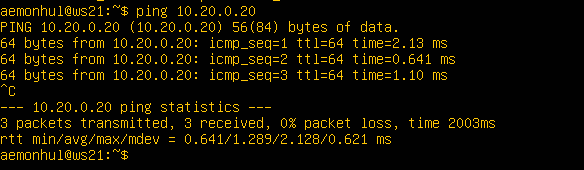
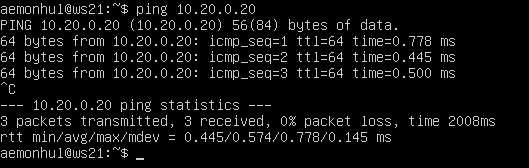
task 6 finish

Changed region(s): [[0.0, 0.0, 0.8771, 0.5655], [0.0, 0.5952, 0.9376, 0.9524]]

diff --git a/src/report.md b/src/report.md
@@ -348,7 +348,18 @@
 ![](https://git.21-school.ru/students_repo/aemonhul/DO2_LinuxNetwork.ID_356275-1/raw/develop/src/image_for_md/ws11_ipa_dhcp.png?ref_type=heads)
 - вызов и вывод команд `ip a` на `ws11`
 
-ПРОПИНГОВАТЬ С ВС11 ВС22, А ТАКЖЕ ИСПРАВИТЬ НА ВС21 ЯМЛ, УБРАВ СТАТИКУ И ЗАСКРИНИТЬ БЕЗ ВСЯКИХ DHCLIENT
+![](https://git.21-school.ru/students_repo/aemonhul/DO2_LinuxNetwork.ID_356275-1/raw/develop/src/image_for_md/ws11_ping_ws22_.png?ref_type=heads)
+- пинг `ws22` с `ws11`
+
+## Запроси с ws21 обновление IP-адреса.
+
+![](https://git.21-school.ru/students_repo/aemonhul/DO2_LinuxNetwork.ID_356275-1/raw/develop/src/image_for_md/ws21_ipa_last.png?ref_type=heads) 
+- вызов и вывод команды `ip a` на `ws21` до смены `ip`
+
+![](https://git.21-school.ru/students_repo/aemonhul/DO2_LinuxNetwork.ID_356275-1/raw/develop/src/image_for_md/ws21_dhclient_ipa.png?ref_type=heads) 
+- вызов и вывод команд `dhclient -r && dhclient` и `ip a` на `ws21`
+
+- командой `dhclient -r && dhclient` мы отправляем `DHCPRELEASE`, который говорит роутеру о том, что на данный адрес аренда больше не нужна аренду, завершаем ее. Командой `dhclient` мы отправляем сначала `DHCPDISCOVER` на широковещательный адрес, соответственно пакет доходит до роутера, тот его подхватывает и отправляет нам `DHCPOFFER`, в котором он предлагает взять такой-то `ip`, на что мы отвечаем `DHCPREQUEST`, соглашаясь с арендой данного адреса, потом роутер высылает `DHCPACK`, выдавая наш `lease`.
 
 
 
